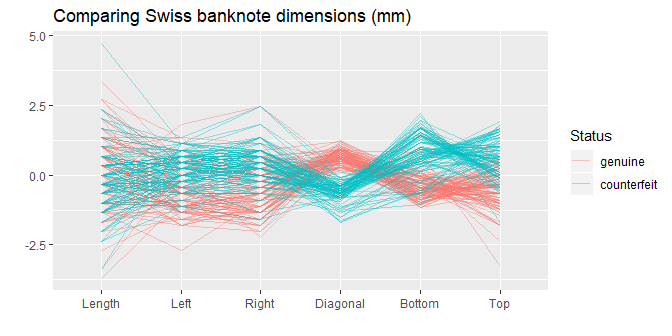
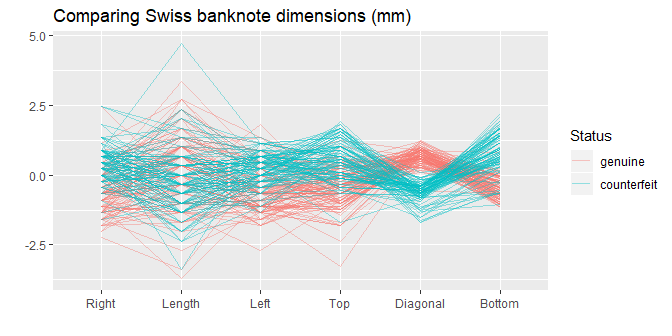
multivariate

diff --git a/cm/cm210-graph-parallel-coord.md b/cm/cm210-graph-parallel-coord.md
@@ -89,7 +89,8 @@ Source, and compare your results to the results shown.
 ## explore
 
 Open the explore script you initialized earlier. Load the package that
-has the data.
+has the data. We.re going to use the same Swiss banknote data we used in
+the scatterplot matrix practice.
 
 ``` r
 library("gclus")
@@ -108,7 +109,7 @@ bank <- as_tibble(bank) %>%
 #> $ Diagonal <dbl> 141.0, 141.7, 142.2, 142.0, 141.8, 141.4, 141.6, 141....
 ```
 
-Baisx parallel coordinate plot.
+The basic parallel coordinate plot usibg `GGally::ggparcoord()`
 
 ``` r
 ggparcoord(bank, columns = 2:7)
@@ -121,6 +122,9 @@ my_color <- c(rcb("dark_BG"),  rcb("dark_Br"))
 my_fill  <- c(rcb("light_BG"), rcb("light_Br"))
 my_title <- "Comparing Swiss banknote dimensions (mm)"
 ```
+
+To use the bank not status \*genuine or counterfeit) as a conditioning
+factor, we have to make it a factor.
 
 ``` r
 bank <- bank %>%
@@ -138,15 +142,26 @@ bank <- bank %>%
 #> $ Diagonal <dbl> 141.0, 141.7, 142.2, 142.0, 141.8, 141.4, 141.6, 141....
 ```
 
+The possible values for the `scale` argument are
+
+    std           subtract mean and divide by standard deviation
+    robust        subtract median and divide by median absolute deviation
+    uniminmax     minimum of the variable is zero, and the maximum is one
+    globalminmax  no scaling
+    center        uniminmax then center each variable at scaleSummary
+    centerObs     uniminmax then center each variable at centerObsID
+
+Using `scale = robust` gives us an idea of the measurements with
+outliers and reduces their effect
+
 ``` r
 library("scagnostics")
-ggparcoord(data = bank, columns = 2:7, 
-           groupColumn  = "Status", 
+ggparcoord(data = bank, columns = 2:7, groupColumn  = "Status",
            scale        = "robust", 
-           # scaleSummary = "median", # with scale == “center”
-           # centerObsID  = 1,      # with scale == “centerObs”
+           # scaleSummary = "median", # use with  scale == “center”
+           # centerObsID  = 1,        # use with scale == “centerObs”
            missing      = "exclude", 
-           order        = "Skinny", # scagnostic measures 
+           order        = "Skewed", # scagnostic measures 
            alphaLines   = 0.4, 
            mapping      = NULL, 
            title        = my_title) +
@@ -154,6 +169,72 @@ ggparcoord(data = bank, columns = 2:7,
 ```
 
 <img src="images/cm210-unnamed-chunk-9-1.png" width="90%" />
+
+The order of the quantitative variables along the x-axis is important
+for us to discern any stories. The scagnostic package has the following
+ordering functions:
+
+    Outlying 
+    Skewed 
+    Clumpy 
+    Sparse 
+    Striated 
+    Convex 
+    Skinny 
+    Stringy 
+    Monotonic
+
+I selected skinny because of the shape of the distributions of the
+variables. From the scagnostics, the three top choices for the ordering
+are Skinny, Stringy, or Skewed.
+
+``` r
+bank2 <- bank %>% 
+  gather(type, value, Length:Diagonal)
+
+ggplot(bank2, aes(value, color = Status)) +
+  geom_density() +
+  facet_wrap(vars(type), scales = "free_x", as.table = FALSE)
+```
+
+<img src="images/cm210-unnamed-chunk-10-1.png" width="70%" />
+
+``` r
+
+library(scagnostics)
+scag <- scagnostics(bank)
+
+str(scag)
+#>  'scagnostics' num [1:9, 1:21] 0.2302 0.9215 0.9559 0.0824 0.7097 ...
+#>  - attr(*, "dimnames")=List of 2
+#>   ..$ : chr [1:9] "Outlying" "Skewed" "Clumpy" "Sparse" ...
+#>   ..$ : chr [1:21] "Status * Length" "Status * Left" "Length * Left" "Status * Right" ...
+
+attributes(scag)
+#> $dim
+#> [1]  9 21
+#> 
+#> $dimnames
+#> $dimnames[[1]]
+#> [1] "Outlying"  "Skewed"    "Clumpy"    "Sparse"    "Striated"  "Convex"   
+#> [7] "Skinny"    "Stringy"   "Monotonic"
+#> 
+#> $dimnames[[2]]
+#>  [1] "Status * Length"   "Status * Left"     "Length * Left"    
+#>  [4] "Status * Right"    "Length * Right"    "Left * Right"     
+#>  [7] "Status * Bottom"   "Length * Bottom"   "Left * Bottom"    
+#> [10] "Right * Bottom"    "Status * Top"      "Length * Top"     
+#> [13] "Left * Top"        "Right * Top"       "Bottom * Top"     
+#> [16] "Status * Diagonal" "Length * Diagonal" "Left * Diagonal"  
+#> [19] "Right * Diagonal"  "Bottom * Diagonal" "Top * Diagonal"   
+#> 
+#> 
+#> $class
+#> [1] "scagnostics"
+
+names(scag)
+#> NULL
+```
 
 <br> <a href="#top">▲ top of page</a>
 
